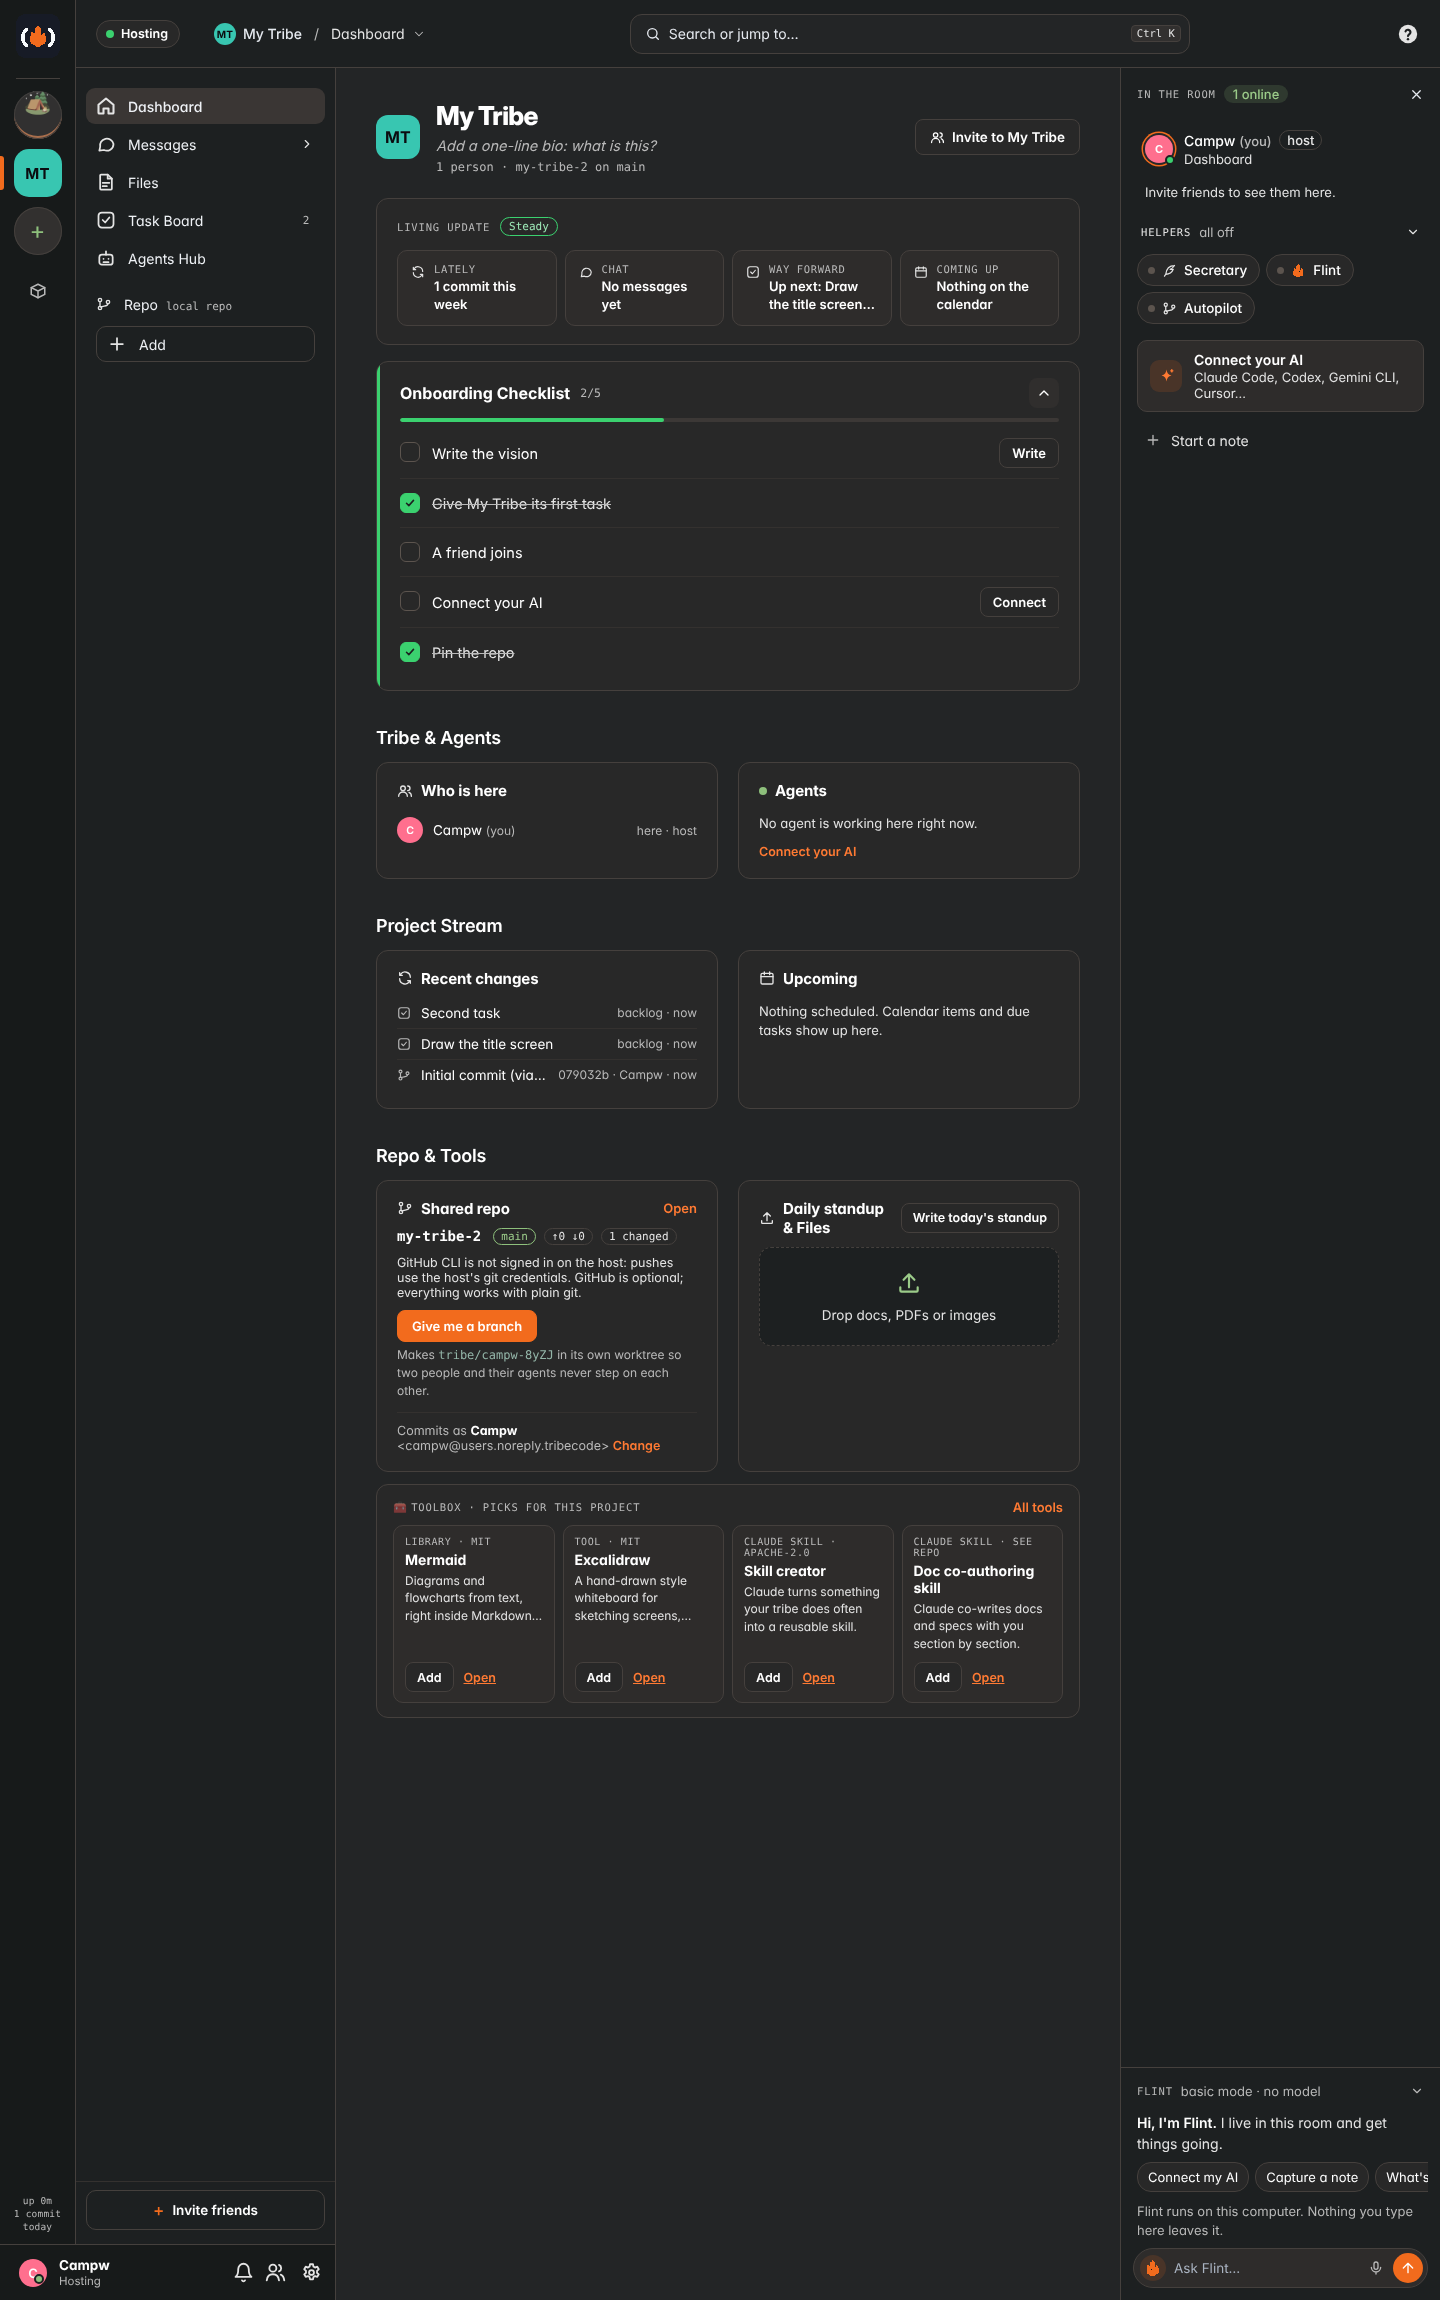
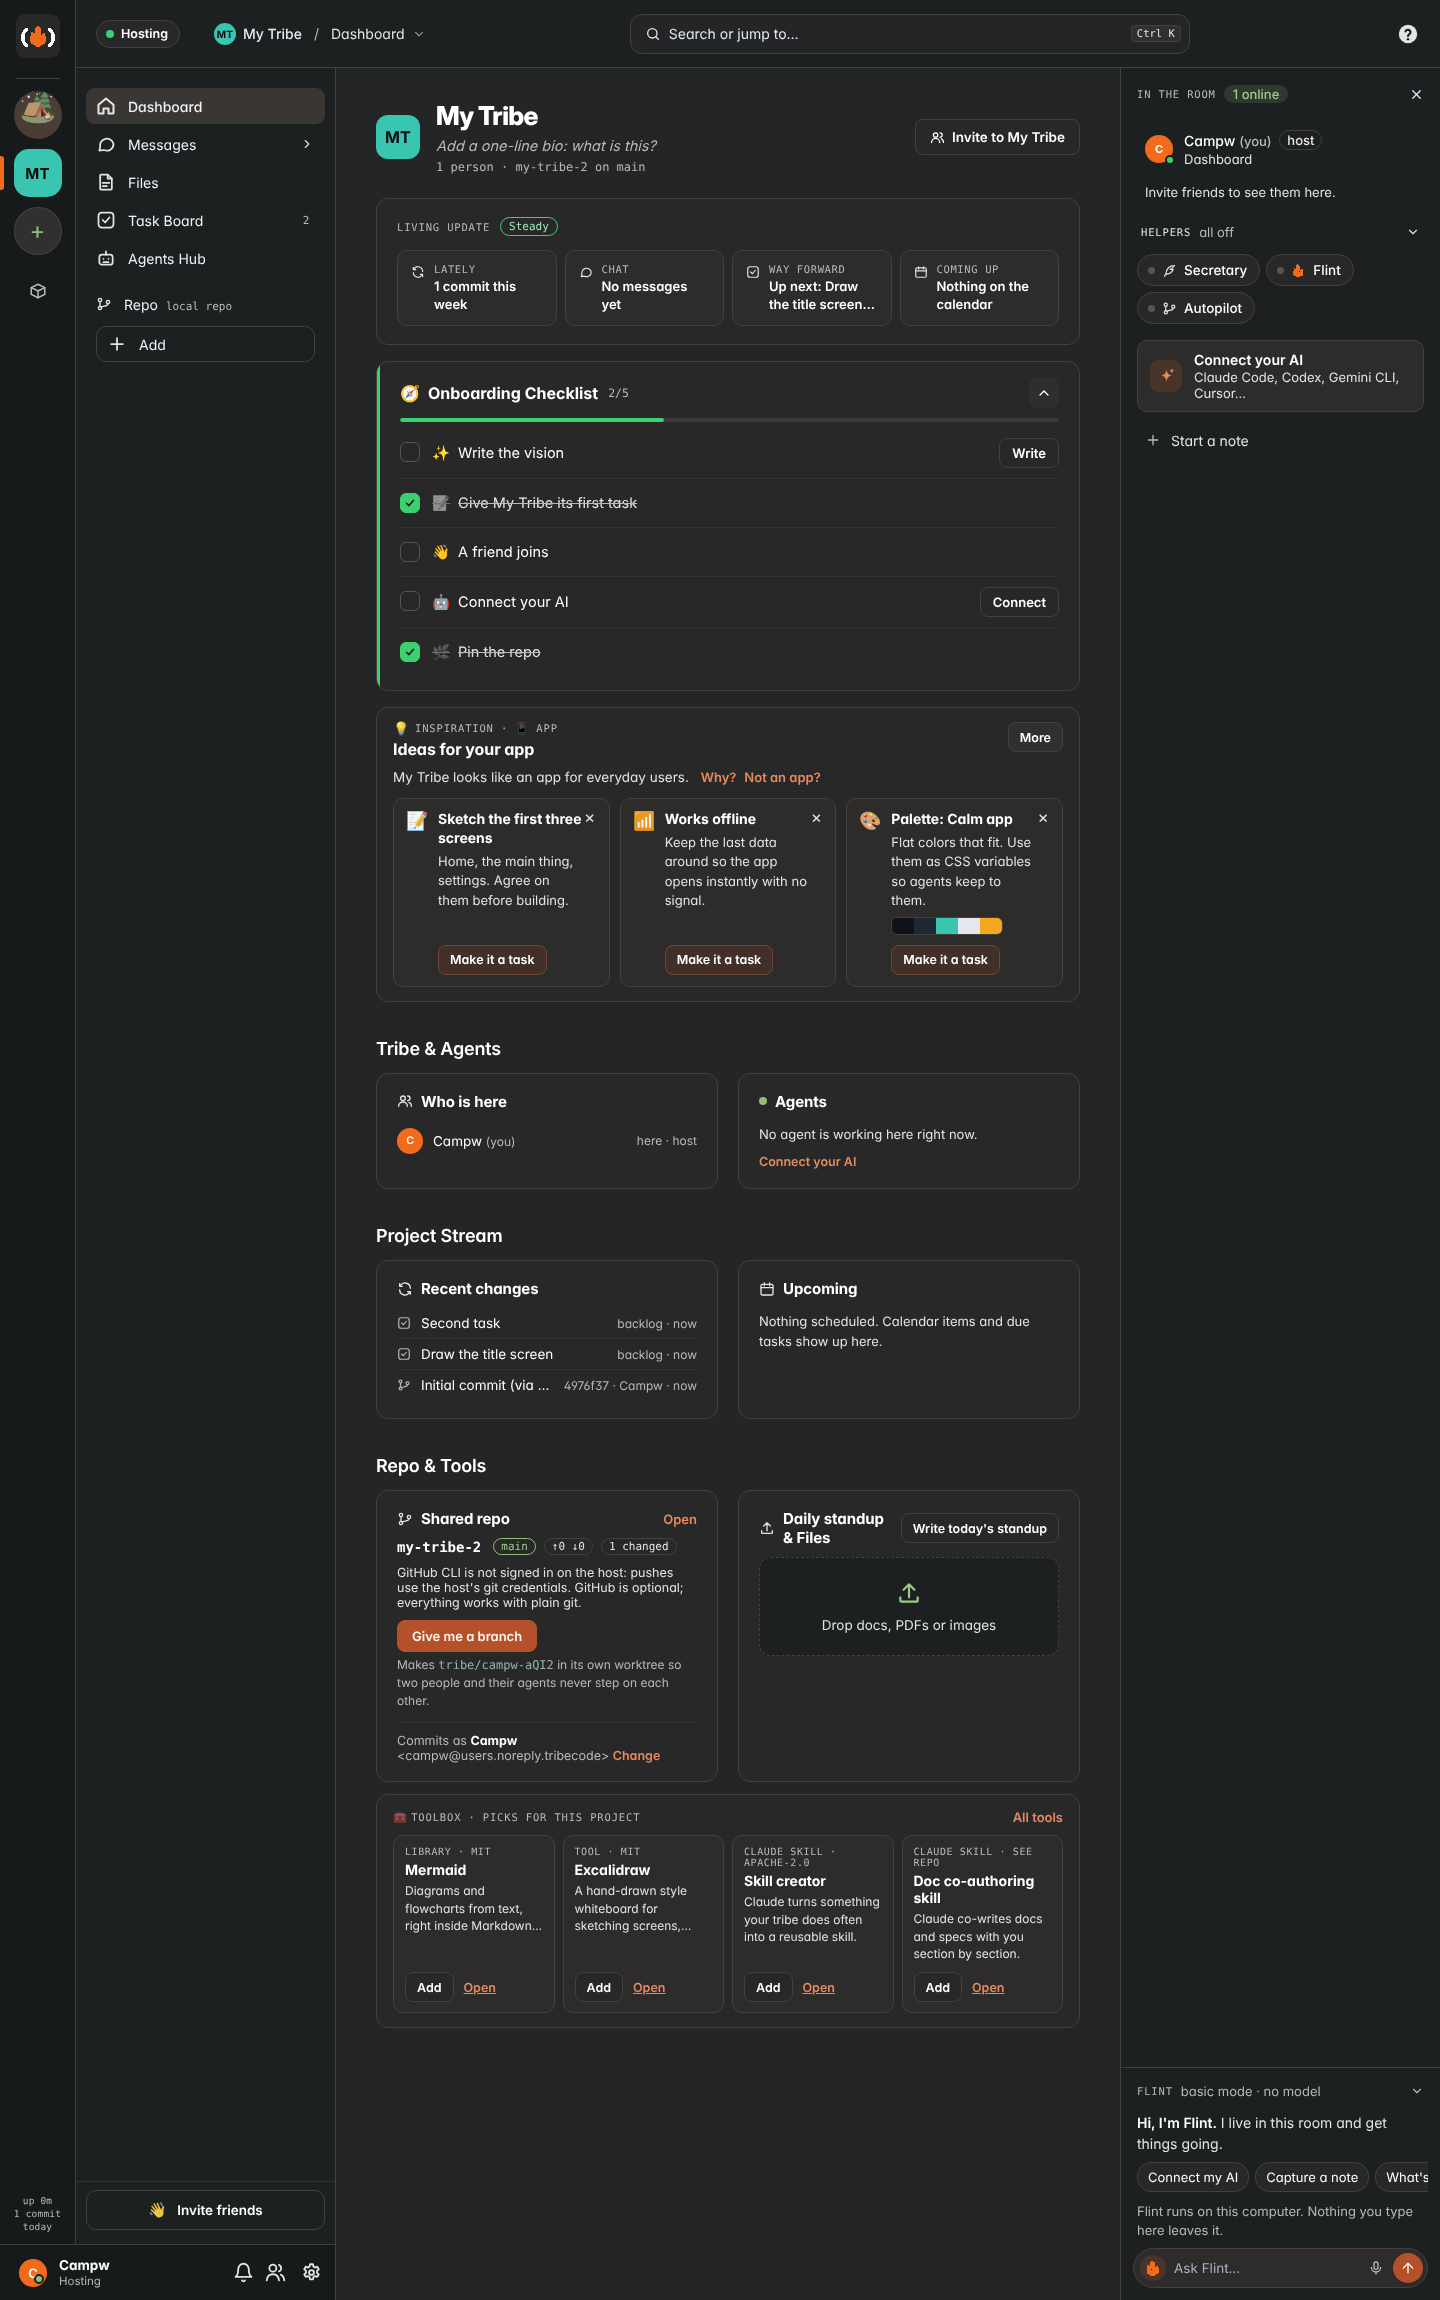
Project sense: offline demo shows the Inspiration card (and the test checks it)
Claude-Session: https://claude.ai/code/session_01Q3y5f5AEdzfgkZgsBdK9Ys

diff --git a/app/ui/offline.js b/app/ui/offline.js
@@ -336,7 +336,7 @@
   function senseMock(p, e) {
     const text = `${p.name} ${p.bio || ''} ${((db.tasks || {})[p.id] || []).map(t => t.title).join(' ')}`.toLowerCase();
     const has = re => re.test(text);
-    const sensed = has(/\b3d|tavern|three/) ? '3d' : has(/game|platformer|level|jump|quest/) ? 'game' : has(/site|landing|page|portfolio|pricing/) ? 'site' : has(/app|mobile|screen/) ? 'app' : 'other';
+    const sensed = has(/\b3d\b|tavern|three\.?js/) ? '3d' : has(/game|platformer|level|jump|quest/) ? 'game' : has(/site|landing|page|portfolio|pricing/) ? 'site' : has(/app|mobile|screen/) ? 'app' : 'other';
     const kind = e.override || sensed;
     const NOUN = { game: 'game', '3d': '3D scene', app: 'app', site: 'website', tool: 'tool', bot: 'bot', api: 'API', notes: 'notes', other: 'project' };
     const tags = [has(/platformer|jump/) && 'platformer', has(/cozy|candle|hearth|warm/) && 'cozy', has(/pixel|sprite/) && 'pixel art', has(/multiplayer|co-?op|crew/) && 'multiplayer'].filter(Boolean).slice(0, 3);

diff --git a/app/test/e2e_offline_demo.py b/app/test/e2e_offline_demo.py
@@ -133,6 +133,10 @@ def flow(page, tag, phone, tmp):
     page.wait_for_function("TribeClient.api('/scratch').then(r => r.notes.length >= 1)", timeout=5000)
     page.wait_for_function("TribeClient.api('/uploads').then(r => r.mine.length === 1)", timeout=5000)
     page.wait_for_function("TribeClient.api('/chat/general').then(r => r.messages.some(m => m.text.includes('hello tribe')))", timeout=5000)
+    # project sense (app/ui/sense.js): the Dashboard's Inspiration card works offline too (offline.js mock)
+    page.evaluate("TribeApp.show('home')")
+    page.wait_for_selector("#pj-insp .sx-item", timeout=8000)
+    assert "game" in page.inner_text("#pj-insp h3").lower(), page.inner_text("#pj-insp h3")
     page.wait_for_selector("#demo-pill", state="visible")
 
 def leave_and_reset(page, tag):
